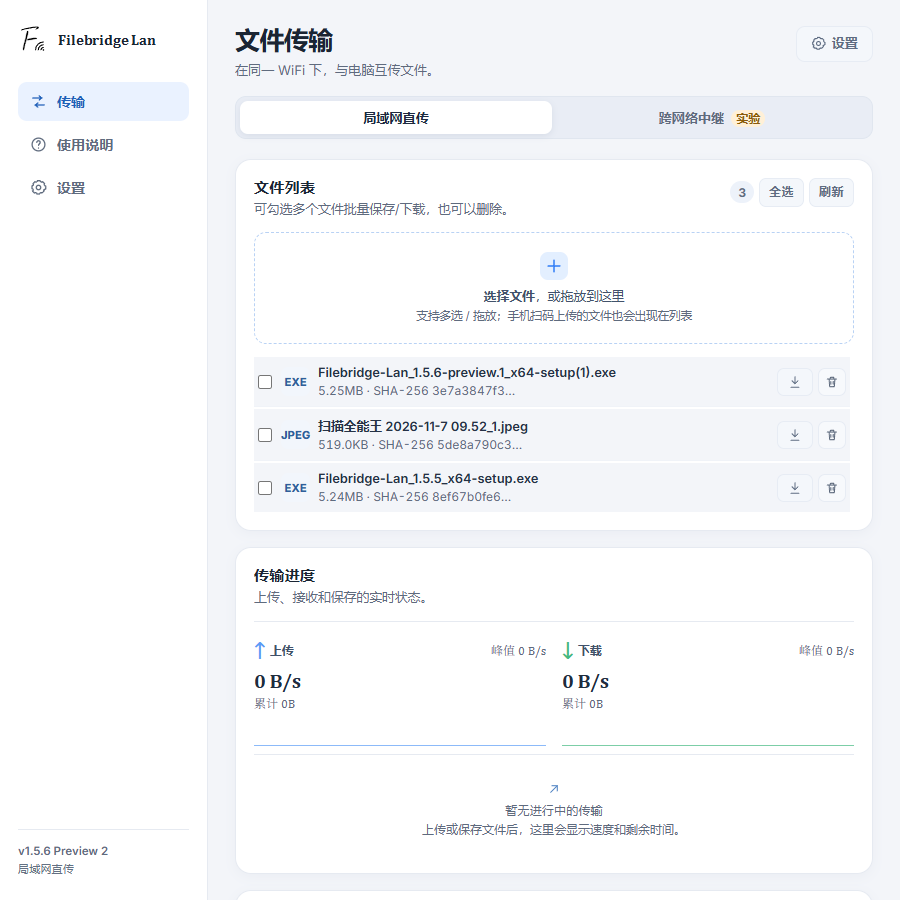
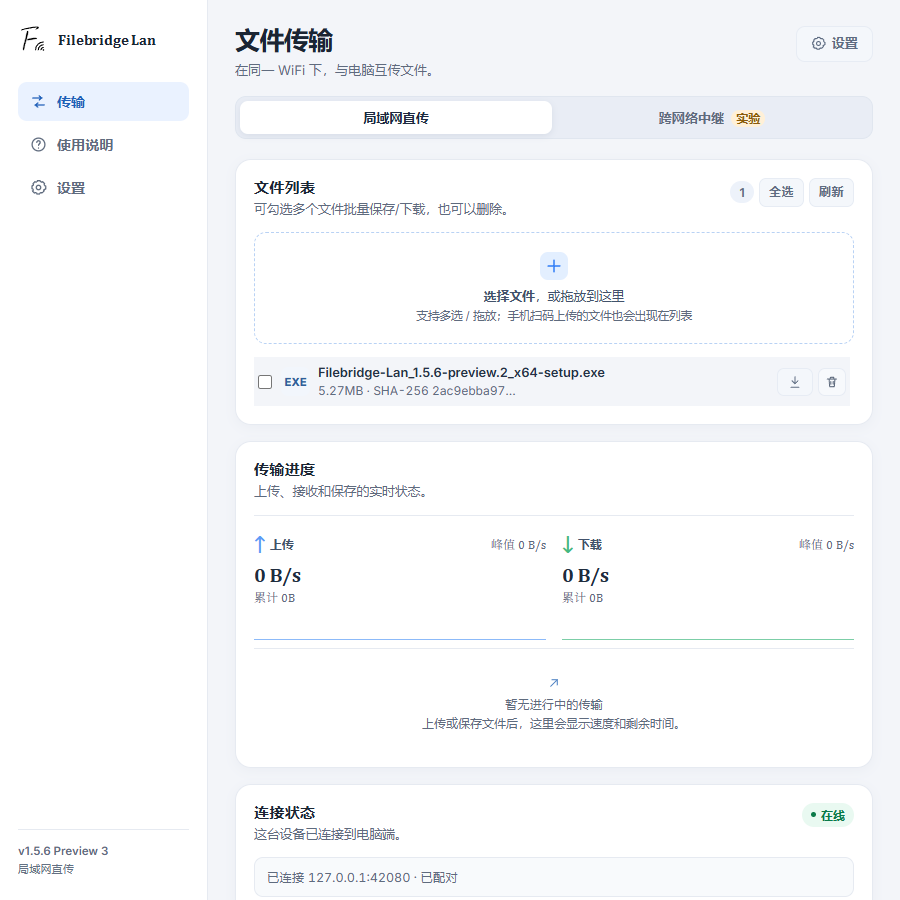
release: prepare 1.5.6-preview.3

diff --git a/src/App.tsx b/src/App.tsx
@@ -169,7 +169,7 @@ export default function App() {
         <main className="receiver-main">
           <RelayTransfer initialLink={relayLink} standalone />
         </main>
-        <footer className="app-footer">Filebridge-Lan v1.5.6 Preview 2 · 实验性中继</footer>
+        <footer className="app-footer">Filebridge-Lan v1.5.6 Preview 3 · 实验性中继</footer>
         <BackToTop />
       </div>
     );
@@ -220,7 +220,7 @@ export default function App() {
         </nav>
 
         <div className="sidebar-foot">
-          <span className="sidebar-version">v1.5.6 Preview 2</span>
+          <span className="sidebar-version">v1.5.6 Preview 3</span>
           <span className="sidebar-mode">{activeMode === 'lan' ? '局域网直传' : '跨网络中继 · 实验'}</span>
         </div>
       </aside>
@@ -288,7 +288,7 @@ export default function App() {
           )}
         </main>
 
-        <footer className="app-footer">Filebridge-Lan v1.5.6 Preview 2 · 局域网直传 / 实验性中继</footer>
+        <footer className="app-footer">Filebridge-Lan v1.5.6 Preview 3 · 局域网直传 / 实验性中继</footer>
       </div>
 
       {helpOpen && (

diff --git a/docs/RELEASE-1.5.6-preview.3.md b/docs/RELEASE-1.5.6-preview.3.md
@@ -1,0 +1,57 @@
+# Filebridge-Lan 1.5.6 Preview 3
+
+发布日期：待虚拟机双机验收后确定
+
+这是 `1.5.6` 的第三个 Preview，修复桌面端单实例、端口失败后的自动恢复和设置页旧 Logo 残留；上传、断点续传、局域网发现、主机批准与 Public 门禁逻辑不变。
+
+## 单实例运行
+
+- 增加 Windows 命名互斥量单实例保护；生产版与开发版使用不同互斥量，`tauri dev` 不会被已安装版本阻塞。
+- 第二次启动在创建 Tauri 窗口、Hub 和发现线程之前退出，并还原、聚焦已有主窗口。
+- 系统中只保留一个主进程，不会出现第二个实例占用 42080/42081 后显示端口错误、页面却仍显示在线的情况。
+
+## 端口占用与自动恢复
+
+- Hub/发现服务改为先绑定 TCP 42080 和 UDP 42081，绑定成功后才记录 `running=true`。
+- 端口被占用时状态为 `running=false`，并显示具体是 TCP 还是 UDP 端口被占用。
+- 每 5 秒重新检查；端口释放后自动重新绑定并恢复服务，无需重启应用。
+- 已运行时不重复创建线程；停止后重新启动会重新绑定两个端口。
+- 前端在服务未运行时强制显示离线，不再依赖旧 Hub 的“在线”结果。
+
+## 设置页 Logo
+
+- “关于”区域改用新的白色底板 App Icon，不再使用旧蓝底字母 `F`。
+- 删除旧 `.about-mark` 的蓝色渐变、字体和阴影样式。
+- 侧栏、接收页、设置页、favicon、Tauri 图标和安装器统一使用同一套 Logo 资源。
+
+## Windows 安装图标
+
+- 重新核对 `src-tauri/icons/icon.ico` 的 16/20/24/32/40/48/64/128/256 九档帧。
+- 核查 v1.5.6-preview.2 CI 安装包发现：app exe 内嵌图标已是新 Logo，但 NSIS 安装器仍使用旧蓝色图标；根因是 `bundle.windows.nsis.installerIcon` 未显式配置。
+- 本版本将安装器图标显式指向 `icons/icon.ico`，并重新生成安装包。
+- `npx tauri icon` 生成的 exe 图标、任务栏/开始菜单图标和 NSIS 安装器图标来自新的白色底板 App Icon。
+- 旧版桌面快捷方式或 Windows Explorer 图标缓存可能仍显示旧图标；本版本不直接清理系统图标缓存，安装/升级后会重新核对快捷方式。
+
+## 验证状态
+
+已通过：
+
+- `npm run check`
+- `npm run build`
+- `npm run test:connection`
+- `npm run test:version`
+- `npm run test:hub`
+- `npm run test:resume`
+- `npm run test:offsets`
+- `npm run test:bridge`
+- `cargo test`
+- `cargo check`
+
+待虚拟机验收：
+
+- 同一 CI 安装包在主机和桥接 Wi-Fi 虚拟机各安装一次；
+- 两端 `/api/info` 均为 `1.5.6-preview.3`；
+- 互相发现、连接、主机批准、双向上传/下载和 SHA-256；
+- 主机切 Public 后远端约 5 秒内显示不可用，操作禁用；切回 Private 自动恢复；
+- 第二次启动只有一个主进程和一个监听者；
+- 干净安装后的 exe、桌面/开始菜单快捷方式和安装器图标。

diff --git a/README.md b/README.md
@@ -41,14 +41,14 @@
 界面使用 Local Workbench 方向：固定侧栏、任务优先的卡片、Cambria 品牌与重点标题、Microsoft YaHei 中文和实际加载的 Inter 功能文本。上传诊断默认折叠；Safari 照片上传支持连续选择后统一上传。
 ## 直接安装（Windows）
 
-从 [GitHub Releases](https://github.com/8hourseontheleft6/Filebridge-Lan/releases) 下载 `Filebridge-Lan_1.5.6-preview.2_x64-setup.exe`，或本地构建：
+从 [GitHub Releases](https://github.com/8hourseontheleft6/Filebridge-Lan/releases) 下载 `Filebridge-Lan_1.5.6-preview.3_x64-setup.exe`，或本地构建：
 
 ```bash
 npm install
 npm run tauri build
 ```
 
-产物：`src-tauri/target/release/bundle/nsis/Filebridge-Lan_1.5.6-preview.2_x64-setup.exe`
+产物：`src-tauri/target/release/bundle/nsis/Filebridge-Lan_1.5.6-preview.3_x64-setup.exe`
 
 - 默认按当前用户安装到 `%LOCALAPPDATA%\Filebridge-Lan`
 - 安装结束时如出现 **UAC** 提示，请允许一次：移除防火墙 Block 规则，并放行专用网络的 TCP 42080 + UDP 42081
@@ -56,7 +56,7 @@ npm run tauri build
 - 首次运行如防火墙弹窗，请允许专用网络（TCP 42080 + UDP 42081）
 - SHA-256 见 GitHub Release 的资产 digest
 
-版本说明：[docs/RELEASE-1.5.6-preview.2.md](docs/RELEASE-1.5.6-preview.2.md)
+版本说明：[docs/RELEASE-1.5.6-preview.3.md](docs/RELEASE-1.5.6-preview.3.md)
 
 > 从旧版本升级：首次启动会尝试把 `Downloads\FileBridge` 数据目录迁移到 `Downloads\Filebridge-Lan`。
 

diff --git a/CHANGELOG.md b/CHANGELOG.md
@@ -1,5 +1,13 @@
 # Changelog
 
+## 1.5.6-preview.3 - Preview
+
+- Windows 增加单实例保护；第二次启动聚焦已有窗口后退出，不再创建第二套 Hub/发现服务
+- Hub/发现服务先绑定端口成功才记录运行；端口占用显示明确原因，释放后自动重试恢复
+- 设置页“关于”改用新白色底板 App Icon，删除旧蓝底字母 F 样式
+- 显式配置 NSIS `installerIcon`，修复 preview.2 安装器仍显示旧蓝色图标；重新核对 exe、快捷方式、开始菜单和安装器图标
+- 上传、断点续传、局域网发现、主机批准和 Public 门禁行为不变
+
 ## 1.5.6-preview.2 - Preview
 
 - 启用新的 Filebridge-Lan 标识：手写 F 与局域网信号弧，替换旧字母方块 F
